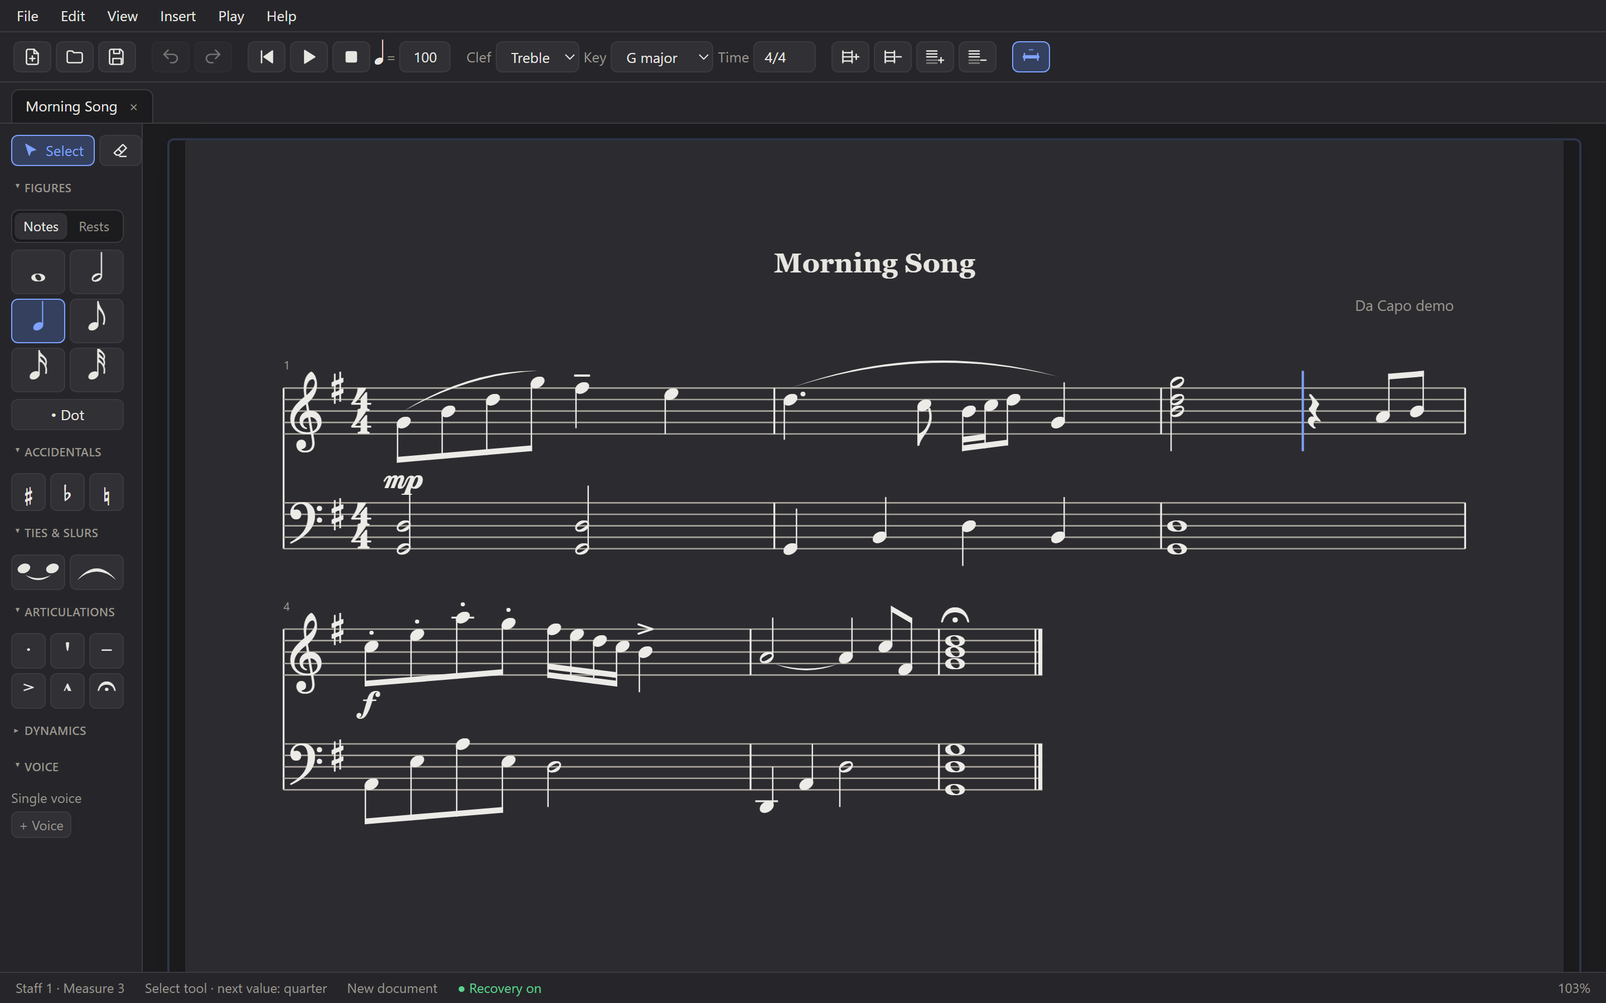
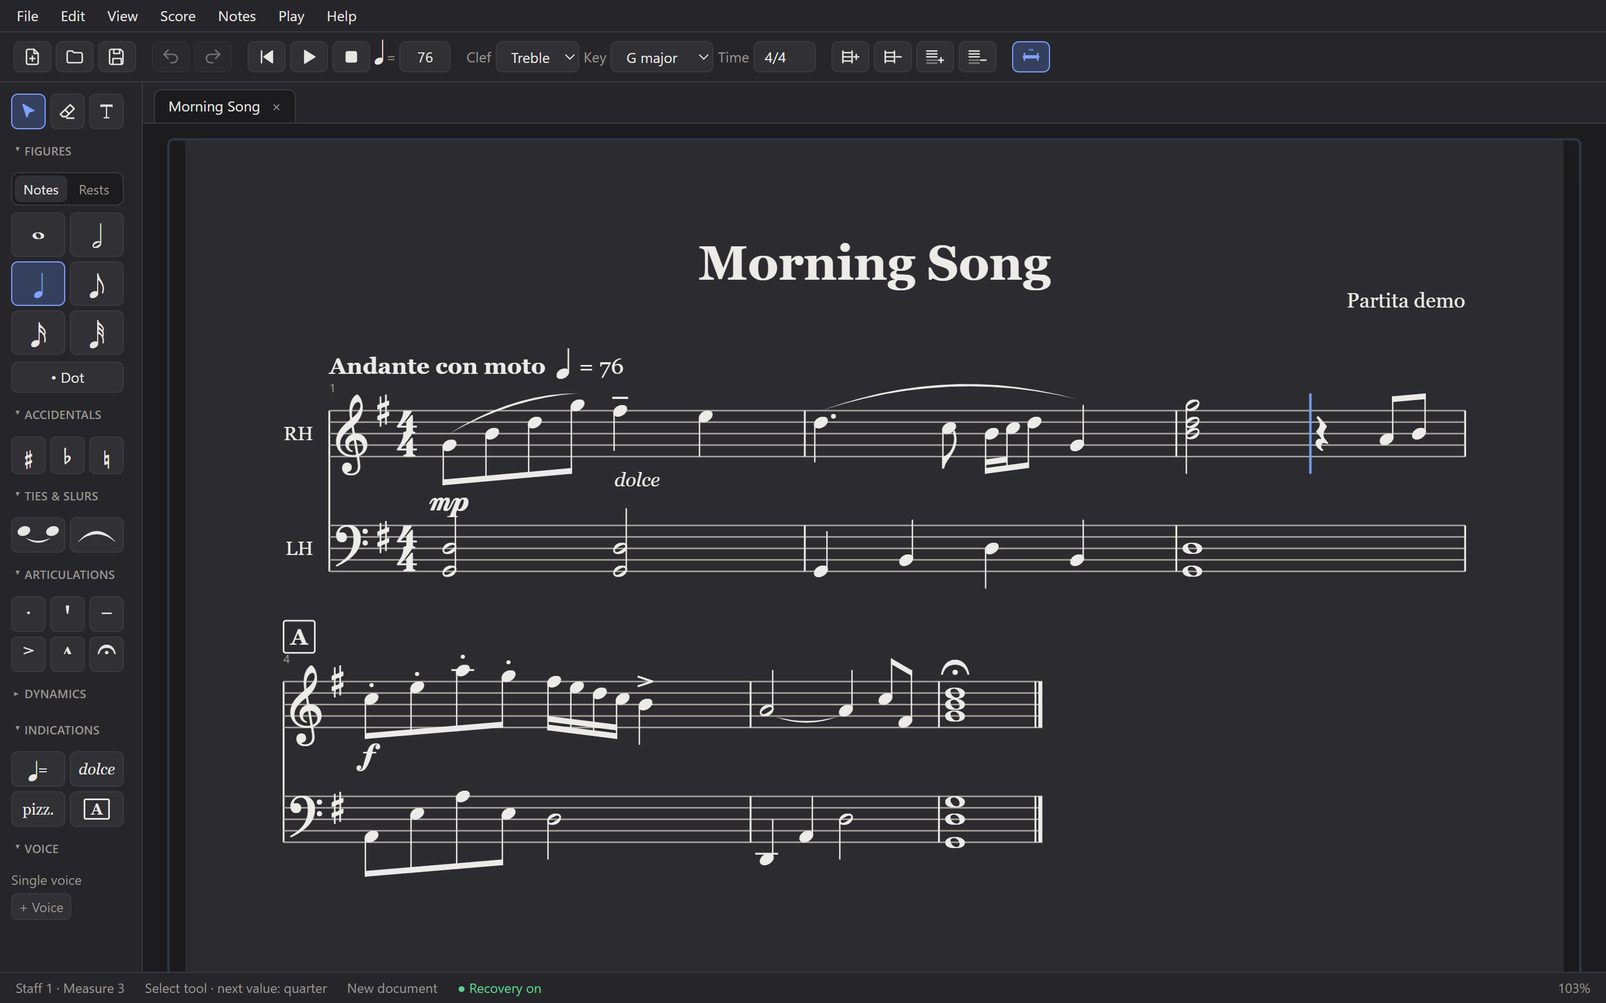
feat: texts, lyrics and Spanish on the website
Ready for the next release, which brings them:
- New guide pages "Titles, tempo and text" (titles, header, footer, page
  numbers, tempo markings, expressions, techniques, rehearsal marks, text
  boxes, text styles) and "Lyrics".
- Entering music describes what 0.2.1 and 0.2.2 added and the site never
  did: the eraser, marks placed with the mouse, dragging notes, beams,
  keys 8 and 9, and the Indications section of the palette.
- Basics, staves, playback and shortcuts follow the new menus (Score and
  Notes, submenus), and describe the language, updates, tempo changes and
  turning a staff into a grand staff.
- Home (English and Spanish): highlights for texts and for the language;
  new screenshots with a tempo marking, dolce and a rehearsal mark, and
  the feature crop moved to fit them.
- Roadmap: texts and Spanish work today; what comes next is summarized,
  with notation for every instrument further ahead.

diff --git a/src/content/docs/guide/basics.md b/src/content/docs/guide/basics.md
@@ -1,6 +1,6 @@
 ---
 title: The basics
-description: Documents, tabs, menus, views, zoom, printing and crash protection.
+description: Documents, tabs, menus, views, zoom, printing, language, crash protection and updates.
 sidebar:
   order: 1
 ---
@@ -15,19 +15,32 @@ Partita is designed to feel like a word processor whose "text" is music. A blink
 - **Export MusicXML…** (File menu) saves the score for Finale, Sibelius, Dorico, MuseScore and others, with each staff's name, sound, transposition and grouping.
 - **Save** (Ctrl+S) saves the document. **Save As** is Ctrl+Shift+S.
 - **Close tab** is Ctrl+W, and **next/previous tab** is Ctrl+Tab and Ctrl+Shift+Tab.
-- Edit the **title** and **composer** directly on the page.
+- Click the **title** or the **composer** on the page to type them (see [Titles, tempo and text](/guide/texts/)).
 
 The tab of a document with unsaved changes shows a dot (●). Closing it asks whether to save.
 
 ## Menus
 
-The menu bar has **File**, **Edit**, **View**, **Insert**, **Play** and **Help**. Press **Alt** to move into it, or **Alt + first letter** (Alt+F, Alt+E, Alt+V…) to open a menu. Then use the arrows, Enter and Esc.
+| Menu | What it has |
+|---|---|
+| **File** | New, open, save, import and export, print. |
+| **Edit** | Undo, redo, cut, copy, paste, select all. |
+| **View** | Layout, zoom, paper, theme and language. |
+| **Score** | Measures, staves and their groups; titles, tempo markings, rehearsal marks, text boxes and text styles. |
+| **Notes** | Ties, slurs, lyrics, expressions and techniques; accidentals, articulations and dynamics. |
+| **Play** | Play, pause and stop. |
+| **Help** | Shortcuts, what's new, updates and credits. |
+
+Items marked **›** open a submenu, and where an item has a current setting (the theme, the zoom) it shows on the right. Rest the pointer on an item for a moment to see what it does.
+
+Press **Alt** to move into the menu bar, or **Alt + first letter** (Alt+F, Alt+E, Alt+V…) to open a menu. Then use the arrows (**→** opens a submenu, **←** closes it), Enter and Esc.
 
 **Help** contains:
 
 - **Keyboard Shortcuts** (F1), the full list of shortcuts.
 - **What's New**, which opens the changelog.
-- **Report a Problem…** and **Source Code on GitHub**, which open in your browser.
+- **Report a Problem…**, **Source Code on GitHub** and **Support Partita…**, which open in your browser.
+- **Check for Updates…** and **Automatic Updates** (see [Updates](#updates)).
 - **Credits and Licenses** and **About Partita**. They show the version, the components Partita downloaded (such as FluidR3 GM) and the projects it is built on. **Copy version info** puts a short summary on the clipboard to paste into a bug report.
 
 ## Views
@@ -36,7 +49,7 @@ Choose how the score is laid out in **View**:
 
 | View | What you see |
 |---|---|
-| **Page (as printed)** | Default. Real sheets of paper (A4 or Letter) with margins. The title sits on page 1 and page numbers appear from page 2 on. What you see is what prints. |
+| **Page (as printed)** | Default. Real sheets of paper (A4 or Letter) with margins. The titles sit on page 1, with the header, footer and page numbers you choose. What you see is what prints. |
 | **Wrap to Window** | The music fills the window width and wraps to new lines, with no page breaks. Handy on small screens. |
 | **Continuous (one line)** | The whole piece on one endless line that grows to the right. The view scrolls sideways to follow the caret. |
 
@@ -52,7 +65,7 @@ All views edit the same way.
 | **Middle button** + drag | Pan the score in any direction |
 | Ctrl + = / Ctrl + − / Ctrl + 0 | Zoom in / out / back to 100% |
 
-**View → Fit Page Width** sizes the page to the window. The zoom is shown at the right of the status bar; click it to go back to 100%.
+**View → Zoom → Fit Page Width** sizes the page to the window. The zoom is shown at the right of the status bar; click it to go back to 100%.
 
 ### Printing
 
@@ -60,10 +73,23 @@ All views edit the same way.
 
 ### Theme
 
-**System** (default) follows your computer's light or dark setting. **Light** or **Dark** fix it for Partita only.
+**View → Theme → System** (default) follows your computer's light or dark setting. **Light** or **Dark** fix it for Partita only.
+
+### Language
+
+Partita speaks English and Spanish. **View → Language → System** (default) follows your computer's language; **English** or **Español** fix it for Partita only. The window reloads in the new language, and open scores and their undo history stay as they are.
 
 ## Crash protection
 
 Every change is written to a recovery journal on disk within half a second. If the app or the computer shuts down unexpectedly, the next start shows a banner listing the recovered documents, with **Restore** and **Discard** buttons. Restoring brings back the work, including the undo history.
 
 The status bar shows **● Recovery on** when protection is active.
+
+## Updates
+
+Partita looks for a new version a few seconds after it starts, at most once a day, and tells you what is new:
+
+- **Download and Install** downloads it in the background while you keep working.
+- **Later** asks again the next day, and **Skip This Version** stays quiet until a newer one appears.
+
+When the download is ready and verified, **Restart Now** installs it and opens the new version. Unsaved changes are offered back when Partita starts again, as after a crash. **Help → Check for Updates…** checks right away; turn off **Help → Automatic Updates** if you prefer Partita never to contact GitHub on its own.

diff --git a/src/content/docs/guide/entering-music.md b/src/content/docs/guide/entering-music.md
@@ -1,6 +1,6 @@
 ---
 title: Entering music
-description: Place notes with the mouse or type them with the keyboard, and use the palette.
+description: Place notes with the mouse or type them with the keyboard, drag notes to a new pitch, erase, and use the palette.
 sidebar:
   order: 2
 ---
@@ -16,21 +16,36 @@ The **palette** on the left holds the tools for entering music.
 3. Click to place it. Notes you place one after another undo together with a single Ctrl+Z.
 4. Click **on an existing note** (the label shows `+`) to add the pitch to its chord. Clicking on a rest turns it into a note.
 
+### Moving notes
+
+With the **Select** tool, point at a notehead: the pointer becomes a vertical double arrow. Drag up or down to move the note one line or space at a time; it sounds at each step. In a chord, only the note you grabbed moves. One Ctrl+Z undoes the whole drag.
+
+### Erasing
+
+The **eraser** (next to Select, or `X`) turns the pointer into a crosshair. Click a note to erase just that note; in a chord, only the tone you aim at goes. Drag a box to erase everything inside it. The note under the crosshair turns red before you click, and one Ctrl+Z brings back everything erased in one go.
+
 ## The palette
 
 The palette is grouped into collapsible categories. Click a heading to open or close it; Partita remembers your choice. Hover any button, or reach it with Tab, to see its name, what it does and its keyboard shortcut.
 
-Marks (accidentals, ties, articulations, dynamics) apply to **the note just before the caret**, or to **every note in the selection**. Clicking the same mark again removes it.
-
 | Category | Contents |
 |---|---|
-| **↖ Select** | Back to normal editing: click to place the caret, drag to select. **Esc**, a right-click or `N` leave entry mode. |
-| **Figures** | **Notes \| Rests** switches between notes and their matching rests. **• Dot** makes the figure dotted. |
+| **Top row** | **Select** (click to place the caret, drag to select), the **eraser** and the **T** tool for [text boxes](/guide/texts/#text-boxes). **Esc**, a right-click or `N` go back to Select. |
+| **Figures** | **Notes \| Rests** switches between notes and their matching rests. **• Dot** makes the figure dotted. **View → Breve and 128th Notes** adds the breve, the 64th and the 128th. |
 | **Accidentals** | ♯ ♭ ♮. The key signature's sharps and flats are applied automatically when you place a note. |
 | **Ties & slurs** | **Tie** (`T`) joins a note to the next one of the same pitch. **Slur** (`S`) draws a phrase mark over the selected notes. |
 | **Articulations** | Staccato, staccatissimo, tenuto, accent, marcato, fermata. The fermata also works on rests. |
 | **Dynamics** | ppp … fff, sfz, fp. Printed below the staff. |
+| **Indications** | Tempo markings, expressions (*dolce*), techniques (*pizz.*) and rehearsal marks. See [Titles, tempo and text](/guide/texts/#words-in-the-music). |
 | **Voice** | **+ Voice** adds an independent line on the same staff, for example divisi strings or two melodies in one hand. Switch voices with its buttons or `Alt+1`…`4`. |
+
+### Placing marks
+
+**Accidentals, articulations and dynamics** can be placed with the mouse: click the mark in the palette (it stays highlighted and follows the pointer), then click each note it goes on. An accidental clicked on a chord changes only that tone. **Esc**, a right-click or clicking the mark again puts it down.
+
+With a selection, a mark goes on every note in the selection at once. From the keyboard, and from the **Notes** menu, marks go on **the note just before the caret**. Choosing a mark a note already has removes it.
+
+**Ties and slurs** work on what you select first: select the notes, then click Tie or Slur.
 
 ## With the keyboard
 
@@ -40,6 +55,7 @@ Marks (accidentals, ties, articulations, dynamics) apply to **the note just befo
 | `Shift` + `A`–`G` | Add a note to the chord just before the caret. |
 | `R` or `0` | Insert a rest. |
 | `1`…`7` | Choose the note value: 64th, 32nd, 16th, eighth, quarter, half, whole. With a selection, change its note values. |
+| `8` / `9` | Breve / 128th, when **View → Breve and 128th Notes** is on. |
 | `.` | Toggle a dot. |
 | `+` / `-` | Raise or lower the accidental of the previous note (or the selection). |
 | `Alt` + `↑` / `↓` | Move the previous note (or the selection) up or down one step. |
@@ -54,6 +70,16 @@ The top toolbar sets the structure of the score:
 - **Key** and **Time**: apply from the caret's measure until the next change. For Time, type something like `3/4` and press Enter.
 - **+ Measure / − Measure**: insert after, or delete, the current measure.
 - **+ Staff / − Staff**: add a staff at the bottom, or delete the current staff.
+
+## Beams
+
+Eighths and shorter notes are beamed automatically, following the time signature:
+
+- In x/4 time, notes are grouped by beat. In 4/4, four eighths in the same half of the bar share one beam.
+- In 6/8, 9/8 and 12/8 they are grouped by dotted quarter; in 3/8 the whole bar is one group.
+- Rests and quarter notes (or longer) break the beam.
+
+Sixteenths and shorter get extra beams, and the stems of a group all point the same way.
 
 ## Rests that fill a measure
 

diff --git a/src/content/docs/guide/texts.md b/src/content/docs/guide/texts.md
@@ -1,0 +1,62 @@
+---
+title: Titles, tempo and text
+description: Title, composer, header, footer and page numbers; tempo markings; expressions, techniques and rehearsal marks; free text boxes; and the font and size of every kind of text.
+sidebar:
+  order: 5
+---
+
+Every text in a score is part of the score: it prints as shown, it is saved in the file, and every change can be undone with Ctrl+Z. **Click any text on the page to change it there.** Type, then press **Enter** (or click elsewhere) to keep it, or **Esc** to leave it as it was.
+
+## Titles, header and footer
+
+| Where | Texts |
+|---|---|
+| **Page 1** | The **title**, a **subtitle** under it, the **composer** on the right and a **lyricist or arranger** on the left (*Words: …*, *Arr. …*), a **dedication** above the title, the **part** at the top left (*Violin I*, for a set of parts) and a **copyright** line at the bottom. |
+| **Every page** | A **footer**, and from page 2 on, a **header**. |
+| **Page numbers** | At the top or the bottom; left, centre, right or on the outside edge (right on odd pages, left on even ones, as in a book); from page 2 on, or on page 1 too. |
+
+**Score → Titles, Header and Footer…** has all of them. In the header, the footer and the page numbers, `{page}`, `{pages}`, `{title}` and `{composer}` are filled in for each page: `{title} · page {page} of {pages}` prints *Sonata · page 2 of 3*. The **Insert** buttons type them for you. A text left empty is not printed.
+
+An empty title or composer shows a grey hint where it goes. Hints are never printed. The music moves down to make room for the texts of page 1.
+
+## Tempo markings
+
+**Score → Tempo Marking…**, or the **♩=** button in the palette, puts a marking such as **Andante con moto ♩ = 76** at the start of the caret's measure. Suggestions such as *Allegro* or *a tempo* appear as you type. The metronome mark can count quarters, eighths, halves or dotted values: ♩. = 60 in 6/8 is the same speed as ♩ = 90. Click a printed marking to change or remove it.
+
+- **What prints and what plays are separate.** *Printed* chooses the words and the metronome mark, the words only, the metronome mark only, or nothing. A hidden marking still sets the tempo.
+- **Tempo changes.** A marking later in the piece with *Changes the tempo from this measure* plays at its new tempo from there on. Without it, only the words are printed (*a tempo*, *più mosso*) and the tempo stays as it was.
+- A marking belongs to its measure: inserting or deleting measures before it moves it along.
+
+## Words in the music
+
+The **Indications** section of the palette has the tempo marking and three more buttons. They are in the **Notes** and **Score** menus too.
+
+| Button | What it adds |
+|---|---|
+| ***dolce*** | An **expression** under the staff, in italics, on the note before the caret (**Ctrl+E**): *dolce*, *espressivo*, *cresc.* |
+| **pizz.** | A **technique** over the staff, on the note before the caret: *pizz.*, *arco*, *con sord.* |
+| **A** | A **rehearsal mark** in a box at the start of the caret's measure, with the next letter after the last one (A, B, C…). |
+
+A grey hint shows where the words go: type over it and press **Enter**. Words on a note move, copy and delete with it. To remove them, click them and clear the text.
+
+## Text boxes
+
+The **T** tool in the palette (or **Score → Text Box**) writes anywhere on a page: click where the text should start and type. **Shift+Enter** starts a new line.
+
+- A text box stays where you put it on its page, whatever the music does. That is why boxes are only shown in page view.
+- **Drag** a box to move it; **click** it to change it.
+- While you type, the format bar above the text sets the alignment (left, centred, right) and a frame around the box.
+- A box left empty, or clicked with the eraser, is removed.
+
+## Text styles
+
+Each kind of text has one look, so that all the tempo markings, for example, match: the title, subtitle, composer, lyricist, dedication, part, copyright, header, footer, page numbers, tempo markings, expressions, techniques, rehearsal marks, lyrics and staff names.
+
+- **While typing a text**, the format bar above it sets the font, the size in points, **bold** and *italic* for every text of that kind. **↺** goes back to Partita's look.
+- **Score → Text Styles…** shows every kind at once, including the ones you do not type in place, such as lyrics. **All to Default** goes back to Partita's look.
+
+Spacing follows the sizes: a bigger title moves the music down, and bigger lyrics take more room between verses. Fonts are the ones installed on your computer; a score opened where a font is missing uses Georgia instead.
+
+## In other programs
+
+MusicXML keeps the title, subtitle, composer, lyricist, part and copyright, the tempo markings (hidden ones too), expressions, techniques and rehearsal marks. The header, footer, page numbers, text boxes and text styles are saved in `.partita` files only.

diff --git a/src/content/docs/project/roadmap.md b/src/content/docs/project/roadmap.md
@@ -21,20 +21,24 @@ Partita is in early development. This page summarizes the plan; the detailed, al
 - Transposing instruments (B♭ clarinet and trumpet, F horn, saxophones…), written in their own key.
 - Brackets and braces for instrument families and multi-staff instruments.
 - Lyrics, up to eight verses.
+- Titles, subtitle, composer, lyricist, dedication, copyright, header, footer and page numbers.
+- Tempo markings (printed or hidden) and tempo changes that playback follows.
+- Expressions, techniques and rehearsal marks.
+- Free text boxes anywhere on a page, and the font, size, bold and italic of every kind of text.
 - MusicXML import and export (`.musicxml`, `.xml`, `.mxl`).
 - Several documents open at once, in tabs.
 - Crash recovery that brings back unsaved work and its undo history.
+- English and Spanish interface.
 
 ## Coming next
 
-- **Notation**: tuplets, grace notes, clef changes, hairpins, tempo marks and text.
-- **Workflow**: a new score wizard with ensemble templates (string quartet, band, orchestra), insert and overwrite modes, and a note property panel.
-- **Orchestra**: a concert-pitch view, nested brackets, and part extraction.
-- **Formats**: PDF export and recent files.
-- **Sound**: volume and pan per staff, metronome and count-in, MIDI keyboard input.
-- **Interface**: customizable shortcuts and a Spanish translation.
+- **Notation**: tuplets, grace notes, clef changes, hairpins, glissandos, and gradual tempo changes (*rit.*, *accel.*).
+- **Writing faster**: a new score wizard with ensemble templates, insert and overwrite modes, box selection, and a panel with the properties of the selected note.
+- **Pages and parts**: PDF export, staff size and page margins per score, a concert-pitch view, and parts for each player.
+- **Sound**: volume and pan per staff, metronome and count-in, and a MIDI keyboard to enter notes.
 
 ## Further ahead
 
+- **Notation for every instrument**: percussion (drum kit notation and its sounds), guitar and bass (tablature, bends, slides, hammer-ons, chord diagrams), chord symbols, and the special marks other instruments need. Each will have its own tools, gathered so they are at hand only when that staff needs them.
 - **Version history**: go back to earlier states of a score, for example how it looked yesterday.
-- Chord symbols and guitar tablature.
+- Customizable keyboard shortcuts and other music fonts.

diff --git a/src/content/docs/guide/lyrics.md b/src/content/docs/guide/lyrics.md
@@ -1,0 +1,42 @@
+---
+title: Lyrics
+description: Write words under the notes, syllable by syllable, in up to eight verses.
+sidebar:
+  order: 6
+---
+
+Lyrics are written **under the notes**, one syllable per note, so they move, copy and paste with the music.
+
+## Writing lyrics
+
+To start, either:
+
+- click **under a staff**, below the note where the words begin (a dashed box shows where you would type), or
+- press **Ctrl+L** (or **Notes → Lyrics**) to start at the note next to the caret.
+
+A text field opens under the note. Type the syllable, then:
+
+| Key | Action |
+|---|---|
+| `Space` | End the word and go to the next note. |
+| `-` | End the syllable and go to the next note; a hyphen joins the two (*can-tar*). |
+| `_` | Hold the syllable over the following notes: an extender line runs to the last note before the next syllable. |
+| `←` / `→` | Move inside the text; at its edge, go to the previous or next note. |
+| `Tab` / `Shift` + `Tab` | Next or previous note. |
+| `Backspace` | In an empty syllable, go back to the previous note. |
+| `↓` / `↑` | Next or previous verse. |
+| `Esc` or `Enter` | Finish. What you typed is kept. |
+
+Rests are skipped, and a note tied from the previous one continues its syllable. Press `Space` on an empty syllable to skip a note.
+
+## Verses
+
+Press `↓` to write a second line of words under the same notes, or click just below the last line. A staff can have up to eight verses. They are numbered when there is more than one, and a verse disappears when its last syllable is deleted.
+
+## Changing lyrics
+
+- Click a syllable to change it. Clear its text to delete it.
+- Each syllable is one **Ctrl+Z** step.
+- Measures widen to fit the words, and staves move apart to fit the verses.
+- On a staff with lyrics, dynamics are drawn above the staff, as in vocal music.
+- Their font and size are set in **Score → Text Styles…** (see [Text styles](/guide/texts/#text-styles)).

diff --git a/src/content/docs/guide/shortcuts.md b/src/content/docs/guide/shortcuts.md
@@ -2,7 +2,7 @@
 title: Keyboard shortcuts
 description: Every Partita keyboard shortcut on one page.
 sidebar:
-  order: 6
+  order: 8
 ---
 
 In the app, **Help → Keyboard Shortcuts** (F1) shows this list too.
@@ -28,13 +28,35 @@ In the app, **Help → Keyboard Shortcuts** (F1) shows this list too.
 | `Shift` + `A`–`G` | Add a note to the previous chord |
 | `R` or `0` | Insert a rest |
 | `1`…`7` | Note value: 64th … whole |
+| `8` / `9` | Breve / 128th (View → Breve and 128th Notes) |
 | `.` | Toggle a dot |
 | `+` / `-` | Raise / lower the accidental |
 | `Alt` + `↑` / `↓` | Move the note one step |
 | `Ctrl` + `Alt` + `↑` / `↓` | Move the note one octave |
 | `Alt` + `1`…`4` | Switch voice |
 | `T` / `S` | Tie / slur |
-| `N` or `Esc` | Leave mouse entry mode |
+| `Ctrl` + `E` | Expression under the note (*dolce*) |
+| `X` | Eraser on / off |
+| `N` or `Esc` | Back to the Select tool |
+
+## Lyrics
+
+| Keys | Action |
+|---|---|
+| `Ctrl` + `L` | Write lyrics under the note at the caret (again to finish) |
+| `Space` | Next note |
+| `-` | Next note, joined with a hyphen |
+| `_` | Hold the syllable (extender line) |
+| `↓` / `↑` | Next / previous verse |
+| `Esc` or `Enter` | Finish |
+
+## Texts
+
+| Keys | Action |
+|---|---|
+| `Enter` | Keep the text |
+| `Shift` + `Enter` | New line (text boxes) |
+| `Esc` | Leave the text as it was |
 
 ## Moving and selecting
 

diff --git a/src/content/docs/guide/playback.md b/src/content/docs/guide/playback.md
@@ -2,7 +2,7 @@
 title: Playback
 description: Listen to your score, set the tempo and learn how the music is played.
 sidebar:
-  order: 5
+  order: 7
 ---
 
 | Control | Action |
@@ -10,9 +10,13 @@ sidebar:
 | **Space** or ▶ | Play from the caret. Press again to pause: the caret moves to where the music stopped, so the next Play continues from there. |
 | **Shift + Space** or ⏮ | Play from the beginning. |
 | **Esc** or ⏹ | Stop without moving the caret. |
-| **♩ = 100** in the toolbar | Tempo in quarter notes per minute (20–400). Type a value and press Enter. It is saved with the score. |
+| **♩ = 100** in the toolbar | The opening tempo in quarter notes per minute (20–400). Type a value and press Enter. It is saved with the score. |
 
 A green line follows the music, and the view scrolls to keep it in sight. Notes also **sound while you write them**: placing a note, adding to a chord, or changing a pitch or accidental plays it.
+
+## Tempo changes
+
+A [tempo marking](/guide/texts/#tempo-markings) later in the piece can change the tempo from its measure on, and playback follows it. A marking can be hidden and still set the tempo. Gradual changes (*rit.*, *accel.*) are not played yet.
 
 ## Sounds
 
